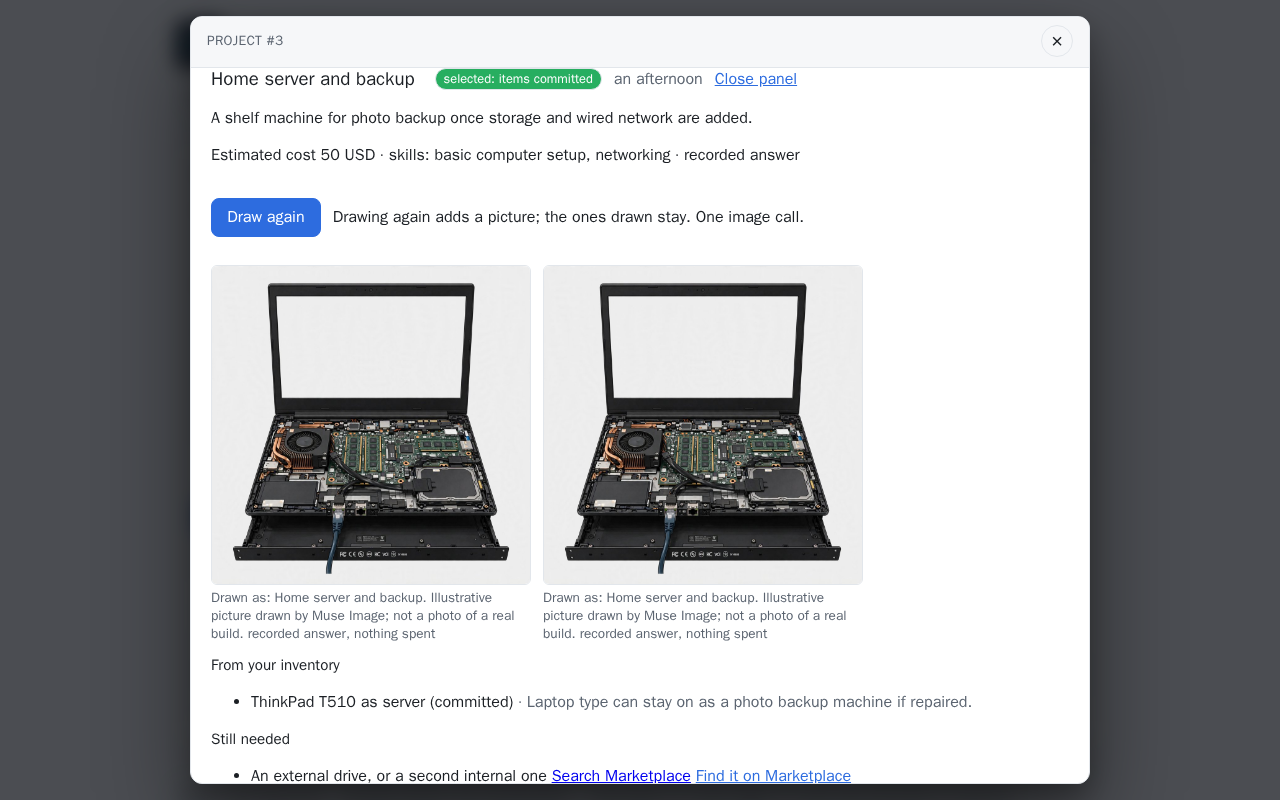
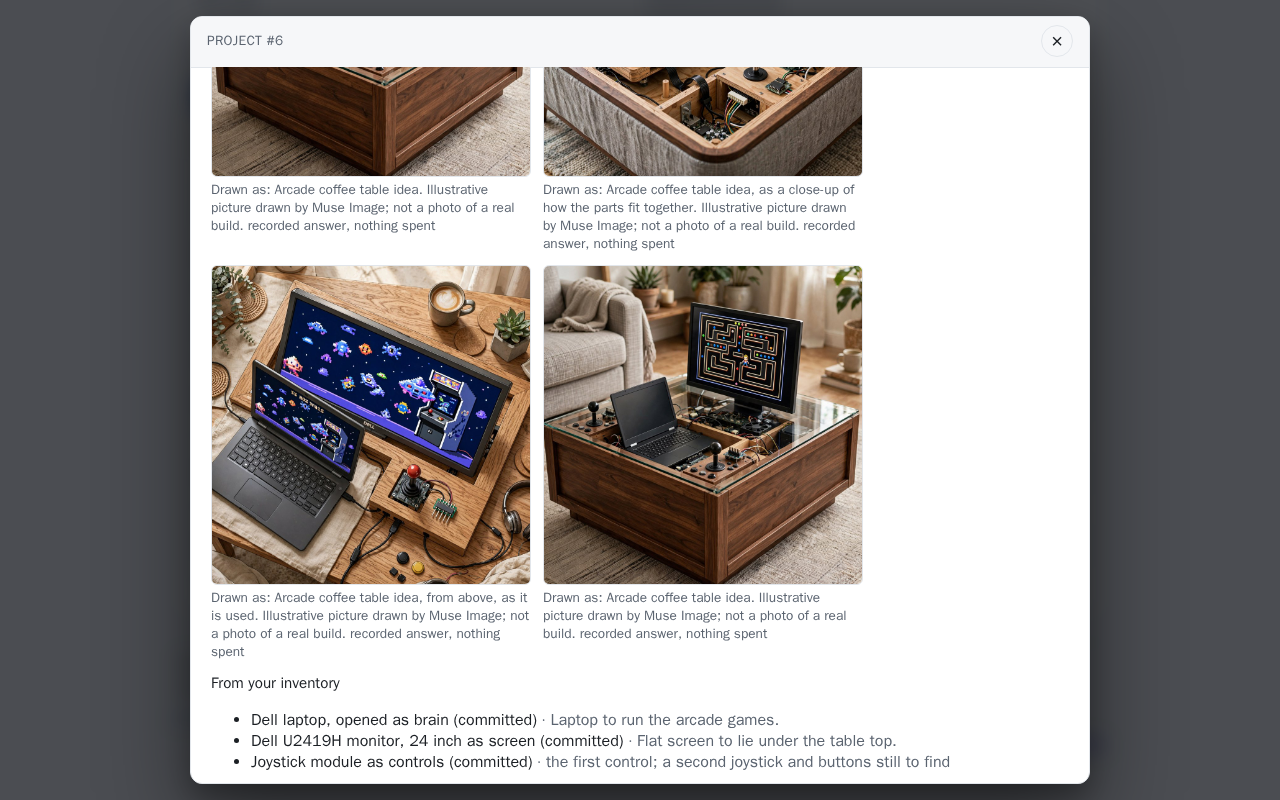
fix(docs): shoot a search the demo set already opened for the arcade table

Changed region(s): [[0.125, 0.0312, 0.75, 1.0]]

diff --git a/docs/shots/05-reuse.spec.ts b/docs/shots/05-reuse.spec.ts
@@ -10,6 +10,8 @@ test.describe.configure({ mode: 'serial' })
 async function project(page: Page): Promise<Locator> {
   await page.goto('/#build')
   const table = page.getByRole('table', { name: 'Projects' })
+  // the rows come with the list: count them only once it is there
+  await expect(table.getByRole('button', { name: 'Open' }).first()).toBeVisible()
   const arcade = table.getByRole('row', { name: /arcade/i })
   const row = (await arcade.count()) > 0 ? arcade.first() : table.getByRole('row').filter({ hasText: /proposed|selected/ }).first()
   await row.getByRole('button', { name: 'Open' }).click()
@@ -67,11 +69,16 @@ test('what is missing, as a Marketplace search', async ({ shots, page }) => {
   const panel = await project(page)
   const need = panel.getByRole('list', { name: 'Missing requirements' }).getByRole('listitem').first()
   const words = ((await need.textContent()) ?? '').split(/[(·]/)[0].trim()
-  await need.getByRole('button', { name: 'Find it on Marketplace' }).click()
+  // the demo set opens a search for every part a selected project still needs: shoot that
+  // state as it is; on a set that does not, open the search here
+  const find = need.getByRole('button', { name: 'Find it on Marketplace' })
+  const opened = (await find.count()) === 0
+  if (!opened) await find.click()
   await expect(need).toContainText('open on Find a part')
   await shots.show(need, 'center')
   await shots.take('06-find-it')
-  await page.getByRole('dialog').getByRole('button', { name: 'Close', exact: true }).click()
+  const close = page.getByRole('dialog').getByRole('button', { name: 'Close', exact: true })
+  if (!opened || (await close.count())) await close.first().click()
   await page.getByRole('button', { name: 'Find a part', exact: true }).click()
   const row = page.getByRole('table', { name: 'Searches' }).getByRole('row').filter({ hasText: words.slice(0, 30) }).first()
   await row.getByRole('button', { name: 'Open' }).click()
